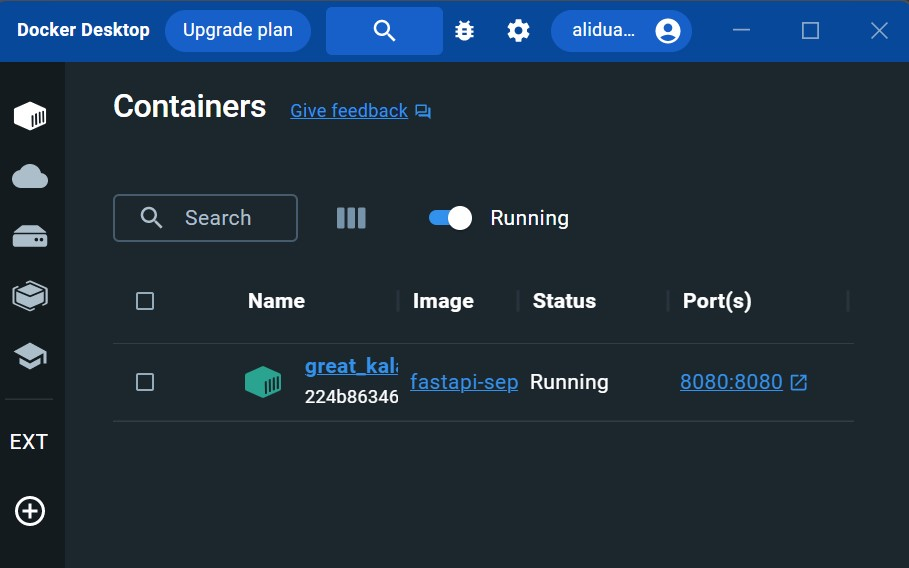
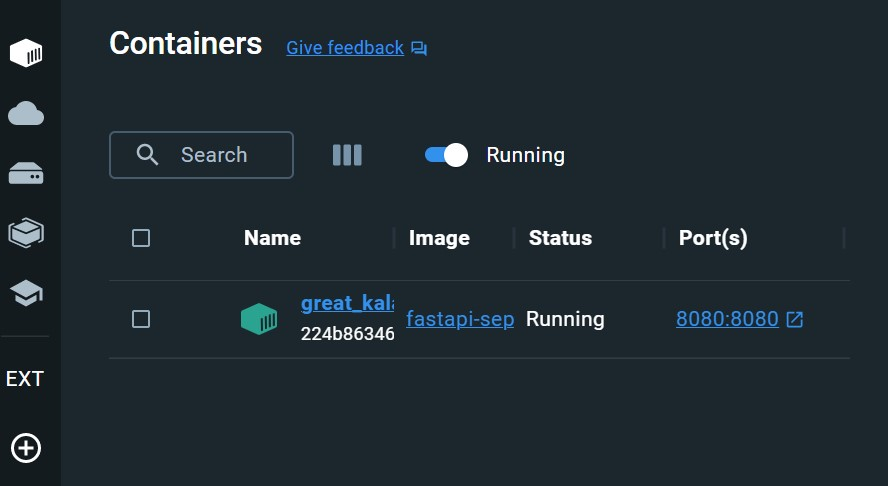
update

diff --git a/README.md b/README.md
@@ -283,11 +283,11 @@ docker run -d -p 8080:8000 your-image-name
 8. After running the command, the Docker container will start, and your FastAPI application will be running inside the container.
 
 <p align="center">
-  <img src="images/fastapi3.jpg" alt="Desktop Docker" width="800">
+  <img src="images/fastapi3.jpg" alt="Desktop Docker" width="700">
 </p>
 
 
-9. You can access your application by visiting http://localhost:host-port in your web browser or using an API testing tool.
+9. You can access your application by visiting http://localhost:8080 in your web browser or using an API testing tool.
 
 For example, if you mapped the container's port 8000 to your host's port 8080, you would access the application at http://localhost:8080.
 
